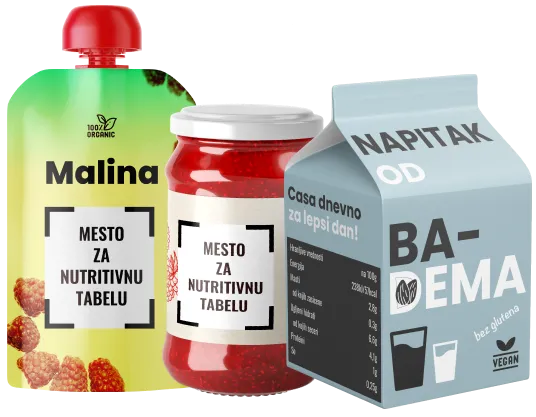
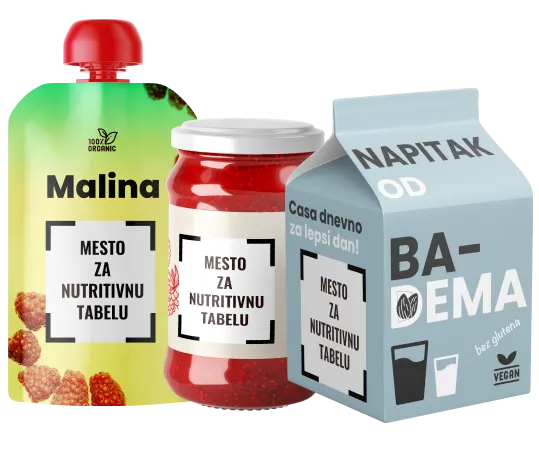
Add files via upload

diff --git a/assets/css/style.css b/assets/css/style.css
@@ -2057,7 +2057,7 @@ font-weight: 500;
     padding: 12px 0px 40px 0px;
 }
 .gap20 {
-    gap: 24px;
+    gap: 54px;
 }
 
 .img-holder {
@@ -2095,17 +2095,19 @@ font-weight: 500;
 }
 
 .standard3img {
-    width: 114px;
+    width: 137px;
     /* height: auto; */
     z-index: 2;
-    bottom: -50px;
+    bottom: -110px;
     position: absolute;
  
     
 }
-
+.standard4img {
+    width: 169px;
+}
 .standard1img {
-    width: 443px;
+    width: 465px;
     bottom: -50px;
 }
 
@@ -2146,7 +2148,7 @@ font-weight: 500;
 /*responsive sec five*/
 
 .section-five {
-    padding: 38px 0px 0px 0px;
+    padding: 36px 0px 60px 0px;
 }
 
 .reverse-column {
